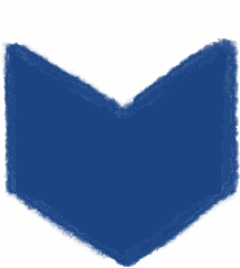
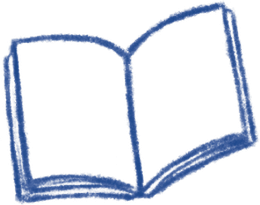
Remplace les icônes Livre et Café de la page de test par des illustrations du moodboard
- Livre : passe du livre bleu plein au livre ouvert au trait (add-on), pages
  transparentes laissant voir le fond.
- Café : remplace le SVG au trait #i-cup par une tasse-soucoupe espresso dessinée,
  pleine vapeur (la tasse rend volontairement plus petite, cohérent avec livre/lyre).
- Icônes à height:54px → titres des trois cartes alignés.
- Assets détourés (blanc→alpha) puis downscalés pour rester légers (55/67 KB).
- Catalogue assets/ILLUSTRATIONS.md mis à jour (livre, tasse, source add-on).

diff --git a/preview.html b/preview.html
@@ -847,12 +847,12 @@ const DEFAULT_LANG = "en";
       </div>
       <div class="cards reveal">
         <a class="card" href="books.html">
-          <img class="ic" src="assets/livre-demodocos.png" alt="" aria-hidden="true" width="240" height="268" style="width:auto;height:54px">
+          <img class="ic" src="assets/livre-demodocos.png" alt="" aria-hidden="true" width="260" height="205" style="width:auto;height:54px">
           <h3 data-i18n="card_books_t"></h3><p data-i18n="card_books_b"></p>
           <span class="more" data-i18n="card_more"></span>
         </a>
         <a class="card" href="coffee.html">
-          <svg class="ic" viewBox="0 0 48 44"><use href="#i-cup"/></svg>
+          <img class="ic" src="assets/tasse-demodocos.png" alt="" aria-hidden="true" width="220" height="358" style="width:auto;height:54px">
           <h3 data-i18n="card_cafe_t"></h3><p data-i18n="card_cafe_b"></p>
           <span class="more" data-i18n="card_more"></span>
         </a>

diff --git a/assets/ILLUSTRATIONS.md b/assets/ILLUSTRATIONS.md
@@ -11,6 +11,10 @@ habiller les pages.
   ⚠️ `work-local/` est **gitignoré** (non versionné) : le PDF vit en local
   seulement. **Garder une copie de sauvegarde** — c'est la source pour ré-extraire
   ou découper d'autres éléments (amphore, porteur de rame, œil-livre…).
+- **Complément :** `work-local/moodboard add-on.pdf` (1 page, gitignoré aussi) —
+  3 dessins de la même main : livre ouvert au trait + 2 tasses (grande tasse type
+  cappuccino / petite tasse-soucoupe type espresso). Sources du **livre au trait**
+  et de la **tasse** actuels. La grande tasse n'a pas été retenue.
 - **Méthode d'extraction :** rendu du PDF en PNG (`qlmanage -t -s 4000`), recadrage
   de l'élément, passage du blanc en transparence (clé « blanc → alpha »), puis
   quantification du PNG. Outil ad hoc (Pillow) — pas de dépendance dans le repo.
@@ -20,7 +24,8 @@ habiller les pages.
 | Fichier | Élément | Position dans le moodboard | Utilisé dans `preview.html` |
 |---|---|---|---|
 | `oeil-demodocos.png` | Œil (courbe au-dessus, pupille blanche) | ligne 1, 2ᵉ depuis la gauche | séparateur `.eye-divider` |
-| `livre-demodocos.png` | Livre **bleu plein** (chevron) | ligne 2, 3ᵉ depuis la gauche | carte « Books and Gifts » |
+| `livre-demodocos.png` | Livre **ouvert au trait** (pages transparentes laissant voir le fond) | add-on, 1ᵉʳ depuis la gauche | carte « Books and Gifts » |
+| `tasse-demodocos.png` | Tasse + soucoupe (espresso) **bleu plein**, **pleine vapeur** qui monte | add-on, 3ᵉ depuis la gauche | carte « Coffee » |
 | `lyre-demodocos.png` | Lyre | ligne 1, 2ᵉ depuis la droite | carte « For the road » |
 | `porte-demodocos.png` | Porte + marches (arche complète) | bas-droite | section « Find us » |
 | `chat-demodocos.png` | Chat (loaf, yeux blancs) | milieu-droite | pied de page (affiché ×1.5) |
@@ -34,6 +39,12 @@ habiller les pages.
 - Pour l'instant elles ne vivent que dans **`preview.html`** (page de test
   `noindex`). Quand un parti pris est validé, porter l'`<img>` + l'asset dans
   `index.html` (et, le cas échéant, retirer le symbole SVG d'origine).
-- La **tasse** de la carte « Coffee » est restée en **SVG au trait** (`#i-cup`) :
-  l'essai « tasse craie » n'était pas concluant — à reprendre depuis un vrai
-  croquis de la même main.
+- La **tasse** de la carte « Coffee » est désormais une illustration dessinée
+  (`tasse-demodocos.png`, croquis de la même main), en remplacement de l'ancien
+  **SVG au trait** `#i-cup`. Image conservée avec sa **pleine vapeur** : la tasse
+  elle-même rend donc plus petite que le livre et la lyre, ce qui est assumé (jugé
+  visuellement cohérent). Icône à `height:54px` comme les autres → titres alignés.
+  Le symbole SVG `#i-cup` n'est plus référencé dans `preview.html`.
+- Le **livre** a été remplacé : l'ancien livre bleu plein → le **livre ouvert au
+  trait** de l'add-on. Ses pages sont transparentes (le fond papier/lavis passe au
+  travers), ce qui s'intègre bien sur les cartes.